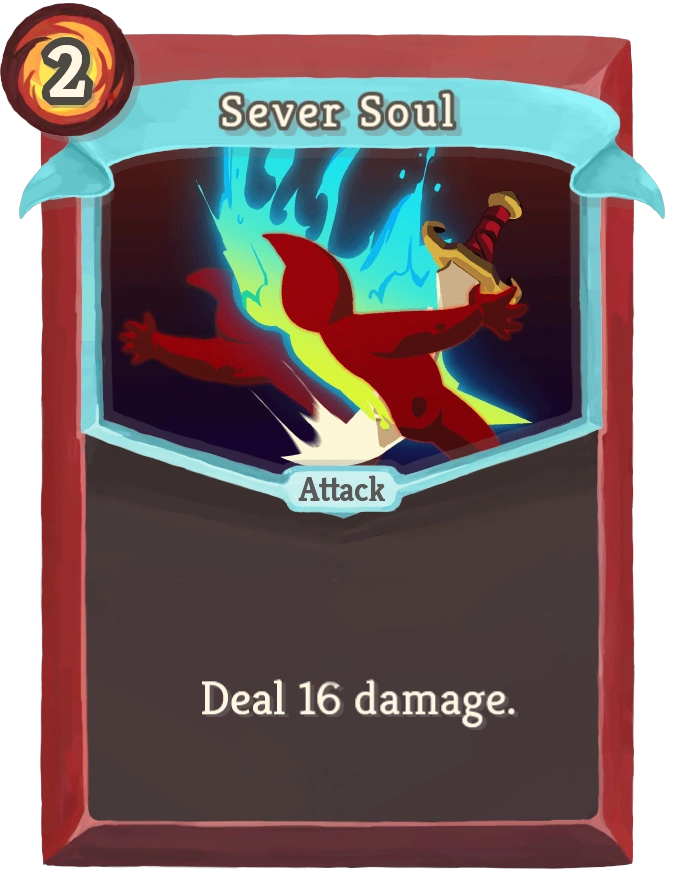
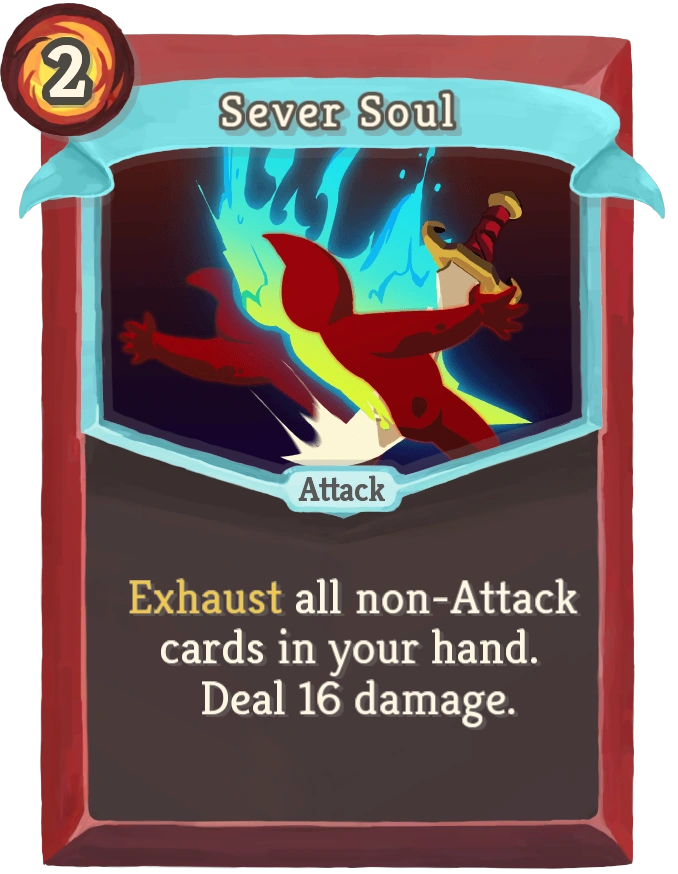
fixed #80

Changed region(s): [[0.1858, 0.6487, 0.8673, 0.7723]]

diff --git a/src/main/java/de/bundeswehr/auf/slaythespire/model/card/ironclad/attack/uncommon/SeverSoulCard.java b/src/main/java/de/bundeswehr/auf/slaythespire/model/card/ironclad/attack/uncommon/SeverSoulCard.java
@@ -1,9 +1,14 @@
 package de.bundeswehr.auf.slaythespire.model.card.ironclad.attack.uncommon;
 
 import de.bundeswehr.auf.slaythespire.helper.PathAssistent;
+import de.bundeswehr.auf.slaythespire.model.battle.BattleDeck;
+import de.bundeswehr.auf.slaythespire.model.battle.GameContext;
 import de.bundeswehr.auf.slaythespire.model.card.structure.AttackCard;
+import de.bundeswehr.auf.slaythespire.model.card.structure.Card;
 import de.bundeswehr.auf.slaythespire.model.card.structure.CardGrave;
 import de.bundeswehr.auf.slaythespire.model.card.structure.CardRarity;
+
+import java.util.List;
 
 /**
  * Die Sever soul Karte.
@@ -16,8 +21,21 @@ public class SeverSoulCard extends AttackCard {
      * Constructor Sever soul card.
      */
     public SeverSoulCard() {
-        super("Sever Soul", "Deal 16 damage.", 2, 16, CardRarity.UNCOMMON, CardGrave.DISCARD);
+        super("Sever Soul", "Exhaust all non-Attack cards in your hand. Deal 16 damage.", 2, 16, CardRarity.UNCOMMON, CardGrave.DISCARD);
         setImagePath(new PathAssistent().toPath(this));
     }
 
+    @Override
+    public void play(GameContext gameContext) {
+        super.play(gameContext);
+
+        BattleDeck battleDeck = gameContext.getBattleDeck();
+        List<Card> hand = battleDeck.getHand();
+        for (int i = hand.size() - 1; i >= 0; i--) {
+            Card card = hand.get(i);
+            if (!(card instanceof AttackCard)) {
+                battleDeck.exhaustCardFromHand(card);
+            }
+        }
+    }
 }
